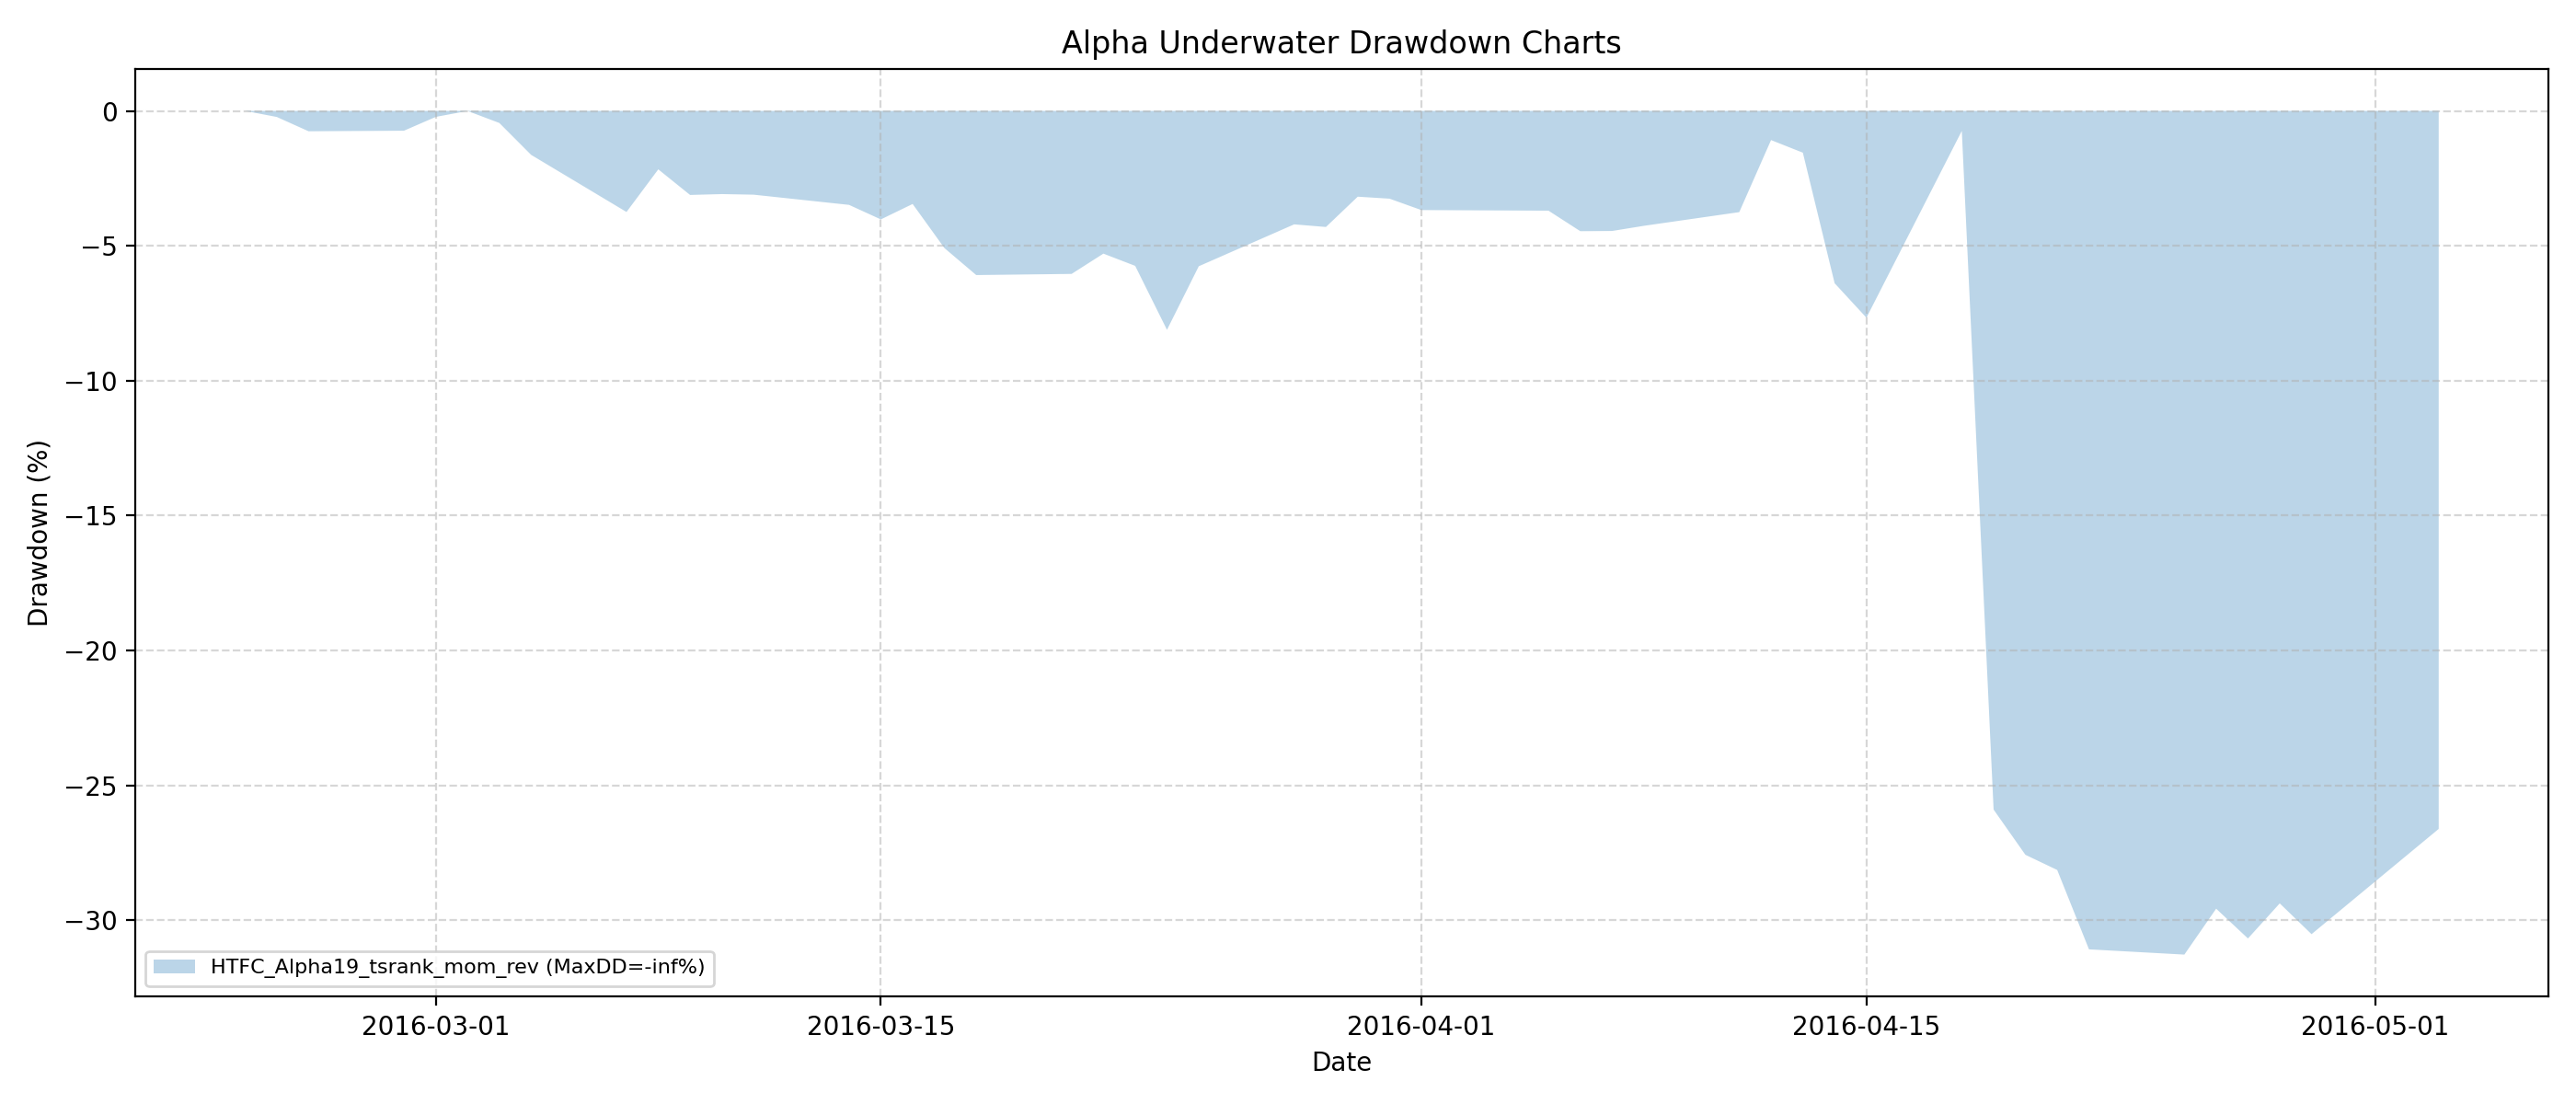
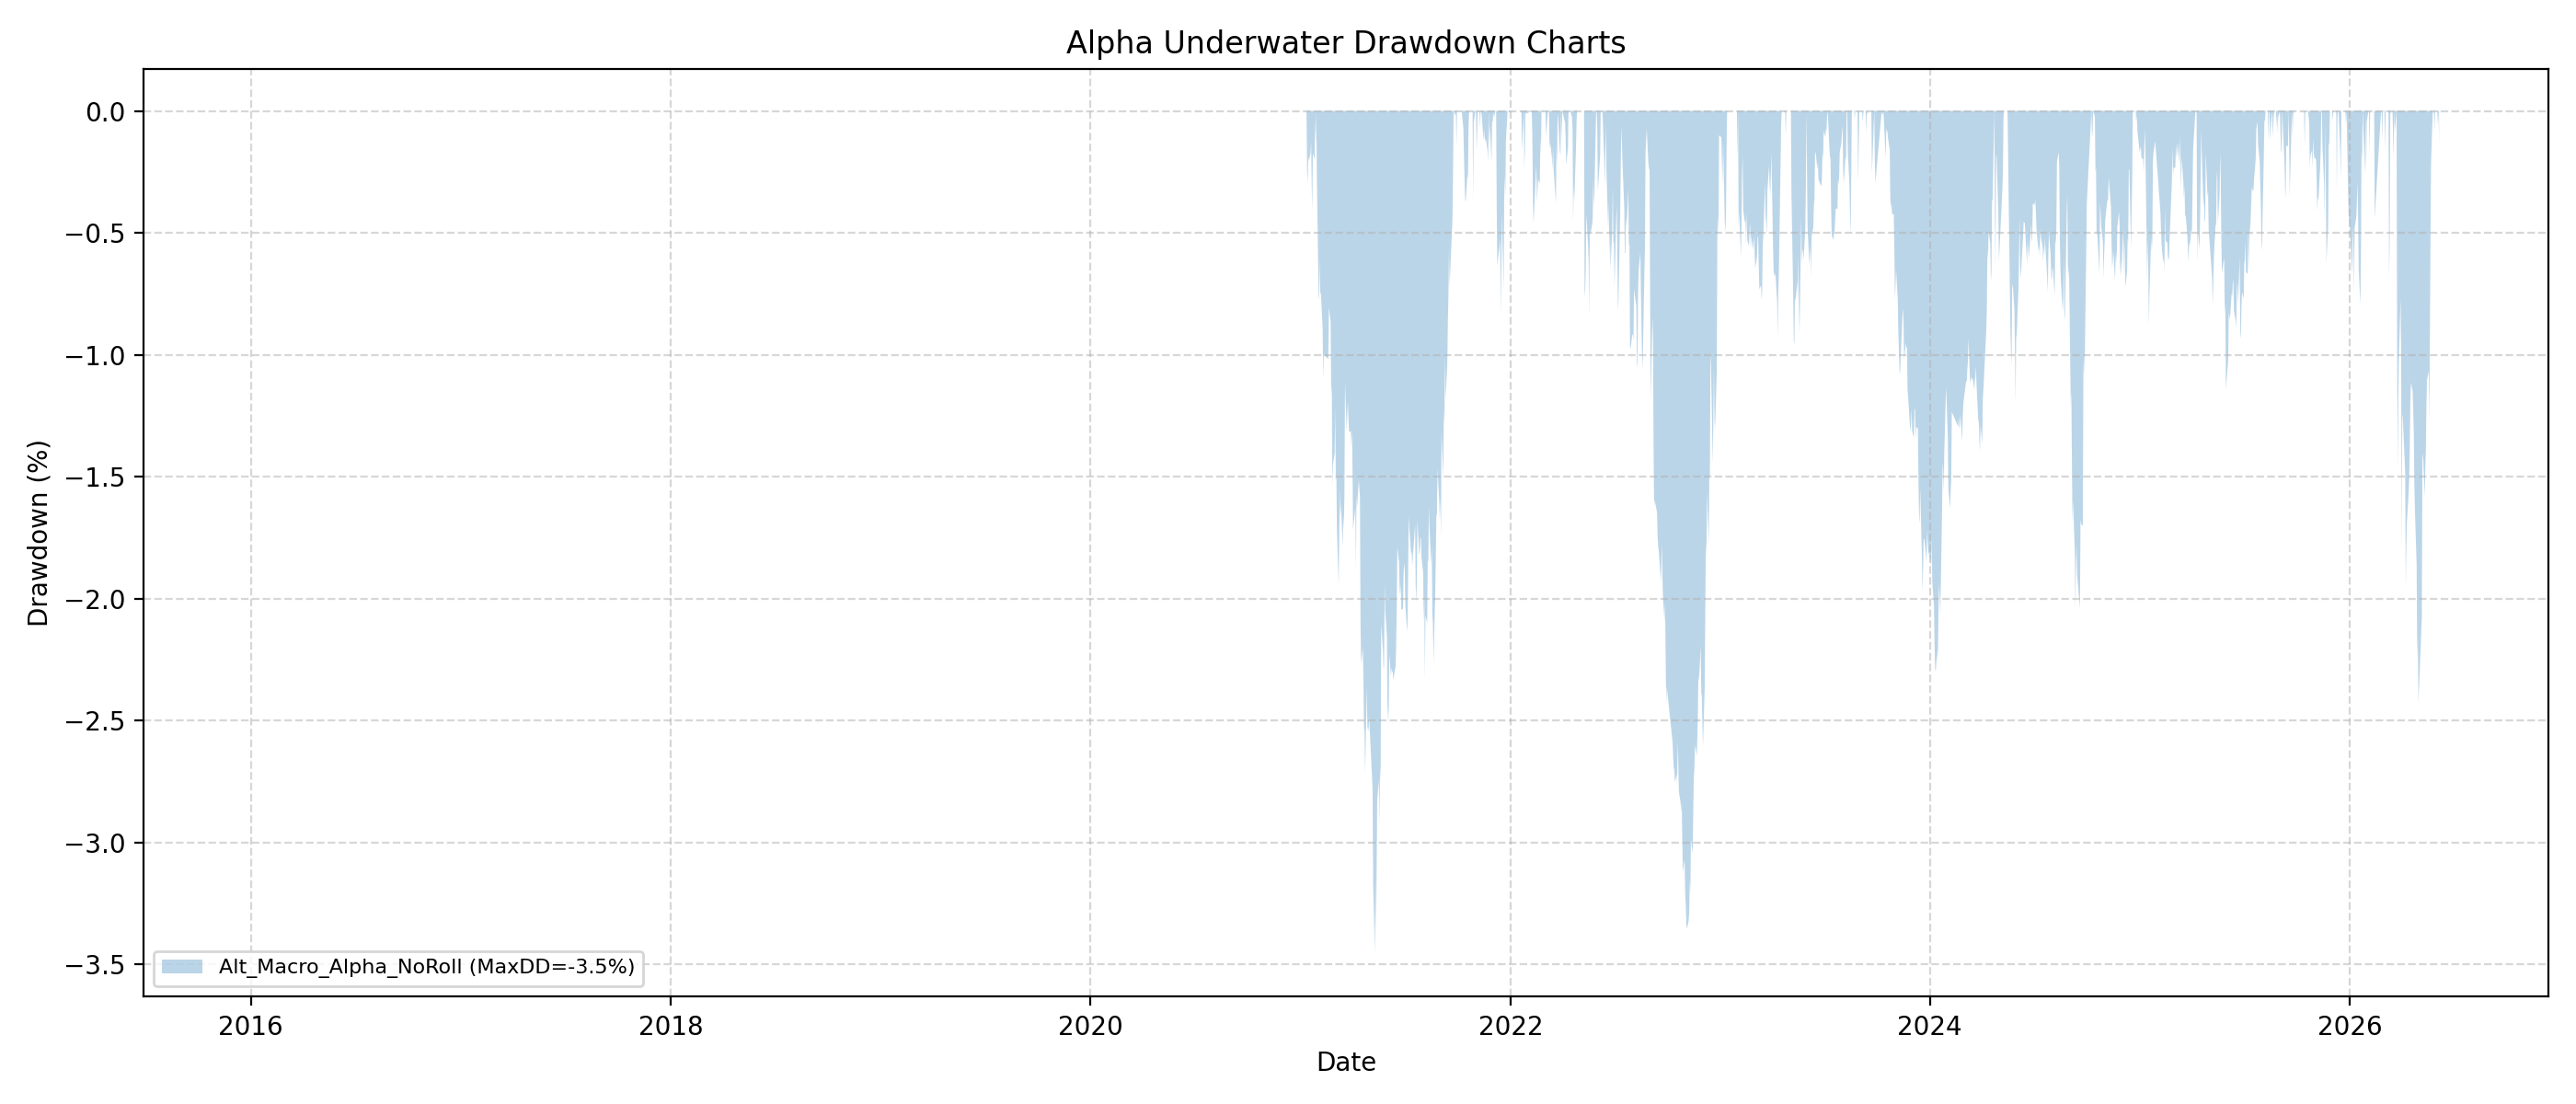
process

diff --git a/alpha_evaluation_report.md b/alpha_evaluation_report.md
@@ -6,7 +6,7 @@ This report evaluates the performance of the 1 alphas across 23 Chinese commodit
 
 | Alpha Name | Ann. Return | Ann. Vol | Sharpe | Deflated Sharpe (DSR) | Calmar | MaxDD | Sortino | Profit Factor | Win Rate | Hit Rate | IC (Rank) |
 |---|---|---|---|---|---|---|---|---|---|---|---|
-| **HTFC_Alpha19_tsrank_mom_rev** | nan% | nan% | 0.00 | nan% | nan | -inf% | nan | nan | 45.68% | 49.81% | 0.0165 |
+| **Alt_Macro_Alpha_NoRoll** | 3.56% | 2.27% | 1.57 | 100.00% | 1.03 | -3.46% | 1.30 | nan | 27.47% | 0.00% | 0.0000 |
 
 ---
 
@@ -18,17 +18,12 @@ This report evaluates the performance of the 1 alphas across 23 Chinese commodit
 
 ![Alpha Drawdowns](C:\Users\Administrator\Documents\ricecta\figures\alpha_drawdowns.png)
 
-## Capacity Decay
-
-![Capacity Decay](C:\Users\Administrator\Documents\ricecta\figures\alpha_capacity_decay.png)
-
 ## Capacity-Adjusted Sharpe Decay Table
 
 This table shows the decay of each alpha's Sharpe ratio at different levels of Assets Under Management (AUM) in RMB.
 
 | Alpha Name | Sharpe at 0 | Sharpe at 10M | Sharpe at 50M | Sharpe at 100M | Sharpe at 500M |
 |---|---|---|---|---|---|
-| **HTFC_Alpha19_tsrank_mom_rev** | 0.00 | 0.00 | 0.00 | 0.00 | 0.00 |
 
 ## Key Findings and Interpretations
 